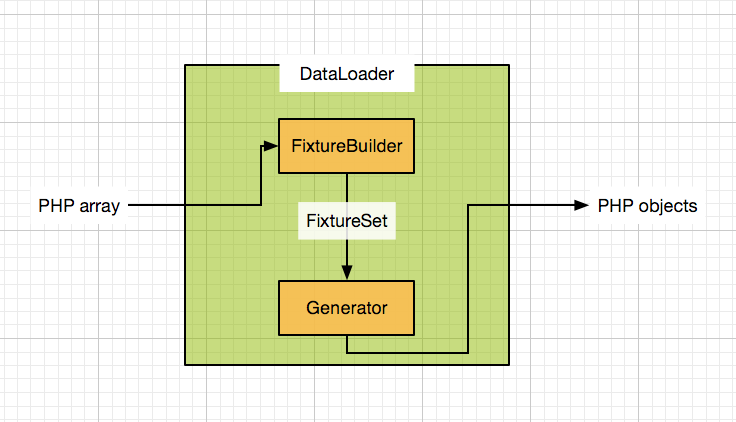
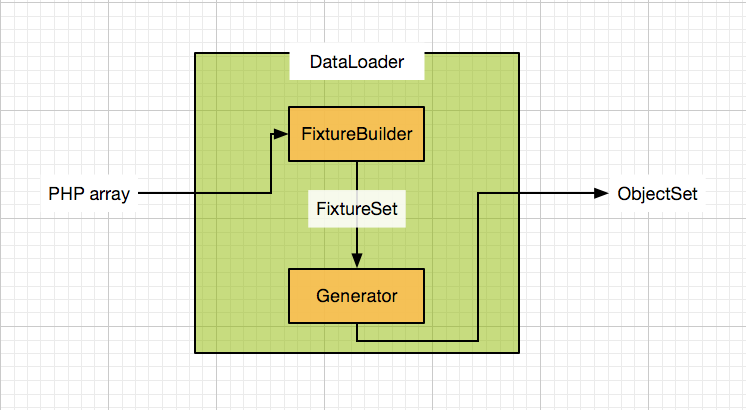
update

diff --git a/tests/Loader/AbstractLoaderIntegrationTestCase.php b/tests/Loader/AbstractLoaderIntegrationTestCase.php
@@ -789,6 +789,44 @@ abstract class AbstractLoaderIntegrationTestCase extends \PHPUnit_Framework_Test
         $this->loader->loadData($data);
     }
 
+    public function testInjectedParametersAndObjectsAreOverriddenByLocalParameters()
+    {
+        $this->markTestSkipped('TODO');
+        $set = $this->loader->loadData(
+            [
+                'parameters' => [
+                    'foo' => 'baz',
+                ],
+                \stdClass::class => [
+                    'dummy' => [
+                        'injected' => false,
+                    ],
+                ],
+            ],
+            [
+                'foo' => 'bar',
+            ],
+            [
+                'dummy' => StdClassFactory::create([
+                    'injected' => true,
+                ])
+            ]
+        );
+
+        $expected = new ObjectSet(
+            new ParameterBag([
+                'foo' => 'baz',
+            ]),
+            new ObjectBag([
+                'dummy' => StdClassFactory::create([
+                    'injected' => false,
+                ])
+            ])
+        );
+
+        $this->assertEquals($expected, $set);
+    }
+
     public function provideFixturesToInstantiate()
     {
         yield 'with default constructor – use default constructor' => [

diff --git a/CONTRIBUTING.md b/CONTRIBUTING.md
@@ -1,5 +1,8 @@
 # Contribution Guide
 
+This guide is for those who wants to have a better understand on the library internals and how to get started if you
+want to contribute.
+
 ### Differences between 2.x and 3.x
 
 Main differences between 2.x and 3.x:
@@ -8,218 +11,110 @@ Main differences between 2.x and 3.x:
 - Rewrite of the API to make it more extensible and more robust
 - Change in the architecture to address some limitations found in 2.x
 
+
 ### Architecture
 
 The two entry points of the library are the `DataLoader` and `FileLoader`:
 
-<p align="center">
-    ![FileLoader](doc/img/FileLoader.png)
-</p>
+![FileLoader](doc/img/FileLoader.png)
 
-  * Added new parser system with support for cache (#361)
-  * Add new parameter resolver system with support for dynamic and composite keys (#366)
+![DataLoader](doc/img/DataLoader.png)
 
+Alice problematic is to render an array PHP containing a description of objects and parameters with external objects
+and parameters that can be injected, into a set of parameters and objects called `ObjectSet.
 
-### 2.3.0 (WIP)
+In `DataLoader`, you can start to see the two second biggest components:
 
-#### Features
+- `FixtureBuilder`: responsible to denormalize the PHP array given into a comprehensible set of data called `FixtureSet`
+- `Generator`: responsible to generate the objects and resolve the parameters described in `FixtureSet` to generate an `ObjectSet`
 
-* Add support for stdClass objects (#425)
 
+#### FixtureBuilder
 
-### 2.2.2 (2016-07-15)
+`FixtureBuilder` is composed of two components: `Denormalizer` and `ExpressionLanguage`. The first one is in charged of
+transforming the input data array with the injected values in a collection of `Fixture` which describes an object to
+generate and parameters.
 
-#### Bugfixes
+`ExpressionLanguage` is the component used by the `Denormalizer` to parse the values such as `@user<current()>`, i.e.
+interpret alice DSL.
 
-* Fix support for hyphens (#431)
+The result `FixtureSet` is always invariant: reloading the same set of data will always result in the same result, hence
+is cacheable.
 
 
-### 2.2.1 (2016-07-14)
+#### Generator
 
-#### Bugfixes
+The `Generator` is responsible to transform a `FixtureSet` which is composed of `Fixture`, parameters, injected objects
+injected parameters into an `ObjectSet` which is a collection of PHP objects and parameters. Because some data are
+generated "randomly" thanks to [Faker][1], a `FixtureSet` will always give a different
+`ObjectSet`*.
 
-* Fix a BC break on how parameters were captured (#423)
-* Fix the usage of empty values with Faker provider (#426)
+*: If there is no dynamic data, the result will always be the same. Also depending of how [Faker][1] is seeded
+(`null` or a positive integer), it data will be generated more or less randomly. For a given seed,
+the data generated will always be the same, for a seed set to `null`, the result will always be different.
 
-#### Miscellaneous
+The generation of the data is done in the following order:
+ 
+1. Resolve `FixtureSet`
+    1. Resolve the parameters: it is assumed the injected parameters are already resolved. Existing parameters are
+    overriden by the local ones if they conflicts.
+    2. Resolve the fixtures: a fixture may have *flags*, used for having
+    [templates](https://github.com/nelmio/alice/blob/master/doc/fixtures-refactoring.md#fixture-inheritance) for example.
+    This resolution step is where it is possible to alter the collection of fixtures depending of the flags. For the
+    templates for example, this is the step where a `dummy` fixture inheriting from another one `base_dummy`, will
+    effectively inherit from the properties of `base_dummy` and `base_dummy` will be removed of the list of fixtures
+    (templates are not generated).
+1. Instantiation: thanks to an `Instantiator`, this is the step where *all* fixtures will be instantiated. The
+instantiation try to be smart enough to account for the order. For example if `second_dummy` is being instantiated but
+requires `first_dummy` to be instantiated first, instead of failing because the order is wrong like in 2.x, the
+instantiator will instantiate `first_dummy` before resuming the instantiation of `second_dummy`.
+1. Hydration: thanks to an `Hydrator`, is the step where all PHP objects are hydrated, i.e. where all the property
+values will be set.
+1. "Caller": thanks to a `Caller`, some additional function calls can be made on the PHP objects after instantiation and
+hydration.
 
-* Add tests for the usage of typehint in setters (#427)
-* Add tests for the usage of templates declared in an included file (#424)
+During the instantiation, hydration or calling process, values may be passed. Those values are a reference to another
+fixture, a parameter, a static value, but sometimes it can also be a value that must be generated via faker. For example
+`<name()>` will result in a random name. Those values are always resolved on the fly by a `ValueResolver`.
 
+To see more about the fixture lifecycle, please check [#388](https://github.com/nelmio/alice/issues/388).
 
-### 2.2.0 (2016-07-11)
+To have more detail regarding a class, the easiest way is to check the code itself and the tests."
 
-#### Features
+#### Expression Language
 
-* Add support for snake_case properties (#323)
-* Add support for dots in reference names (#312)
-* Add support for Fixture parameters in PHP File (#341)
-* Don't persist ORM entities (embeddable support) (#272)
-* Enable quoting references to reflect on the changes in Symfony YAML Parser (#305)
+As already mentionned, alice ship with an Expression Language, responsible to interpret values such as `@user*` or
+`<curent()>`. The complete list of supported features can be found in [ParserIntegrationTest](tests/FixtureBuilder/ExpressionLanguage/Parser/ParserIntegrationTest.php)
+with the [original RFC](https://github.com/nelmio/alice/issues/377).
 
-#### Deprecations
 
-* Drop support for PHP 5.4 and 5.5 (#414)
-* Deprecate usage of the the range operator with more than two dots (#329)
-* Deprecate usage of custom context in Parsers (#342)
 
-#### Bugfixes
+## Contributing
 
-* Fix singularify deprecation warnings and optimize method detection (#407)
-* Fix various bugs in #355:
-  - `user_{alice, bob,}` previously was building a reference named `user_{alice, bob,}`. Now builds that as a list, i.e. result in `user_alice` and `user_bob`. A deprecation warning is also thrown to warn the user that the list is poorly formatted and an exception will be thrown in v3.
-  - `user_{, alice, bob}`: same as previous case.
-  - `user_{0..2}`: value for `<current()>` were respectively `'0'`, `1`, `2`; Now are all strings as states the phpdoc. Changed in #339.
-  - `user_{0....2}`: was generating only one fixture named `user_{0....2}`; Now is equivalent to `user_{0...2}`
-  - `user_{2...0}`: as reported in #358 was generating 4 fixtures... Now is equivalent to `0...2` which result in `user_0`, `user_1` and `user_2`
-  - `user_{2...2}`: was generating two fixtures `user_1` and `user_3`; Now doesn't build any (the segment is `[2;2[` so contains no element)
-  - `user_{0.2}`: was generating a fixture named `user_{0.2}`; Now doesn't generate any.
-  - `user_{2..}`: was generating a fixture named `user_{2..}`; Now doesn't generate any.
-  - `user_{-1..2}`: was generating a fixture named `user_-1..2`; Now doesn't generate any. Same goes for all ranges containing a negative number
-  - Deprecate the silent failing occurring when a fixture could not be built by the builder: current returns `null`, will throw an exception in the future.
-* Fix unique flag usage with templates (#359)
-* Fix some phpdoc (#264)
-* Fix the order in which the files were included (#314)
+The project is using the [PHPUnit][2] for tests. The library also include framework bridges like
+[for Symfony](https://github.com/nelmio/alice/tree/master/src/Bridge/Symfony) which amounts to registering the right
+services with the right properties like tags and configuration to the framework Dependency Injection Container. Any
+other framework special features should be done in another library, bundle, module etc. 
 
+To avoid any conflicts, the framework dependencies used by the bridges are installed in dedicated folders thanks to
+[bamarni composer plugin][3]. As a result, if you want to run the tests for Symfony, you must run the tests with
+`phpunit_symfony.xml.dist` instead of `phpunit.xml.dist`.
 
-### 2.1.4 (2016-01-07)
+The test suite is also making use of the groups annotations:
 
-#### Bugfixes
+- `integration`: integration tests
+- `symfony`: Symfony bridge related tests
+- no group: any unit test
 
-* Ensure named static constructors are preferred over reflection (#303)
+For example to run only the Symfony bridge integration tests:
 
+`$ vendor/bin/phpunit -c phpunit_symfony.xml.dist --group=integration,symfony`
 
-### 2.1.3 (2015-12-28)
+The tests should be descriptive and are "testdox friendly" i.e. if you are using the testdox
+option, you will get something like:
 
-#### Features
+![Testdox](doc/img/testdox.png)
 
-* Add support for static constructors (#301)
-
-
-### 2.1.2 (2015-12-10)
-
-#### Features
-
-  * Add support for Symfony3 (#290, #287, #296)
-
-#### Bugfixes
-
-  * Allow the Populator to set private properties of a parent class (#282)
-
-
-### 2.1.1 (2015-10-01)
-
-  * Bug fixes / cleanup in `Fixtures` static class
-  * Bug fix in `Reference` processor to enable parsing zero references
-  * Bug fix to handle default instance with no properties
-  * Performance improvements
-
-
-### 2.1.0 (2015-09-06)
-
-  * Added support for array parameters
-  * Fixed bug handling addXXX setters
-  * Fixed bug handling functions without signature that use func_get_args() to retrieve parameters
-
-
-### 2.0.0 (2015-03-17)
-
-  * Expanded public interface of the `Loader` class to support:
-    - Trivial parsing of new document types
-    - Custom instantiation methods
-    - Custom setting of properties
-    - Custom processing and fixture building
-  * Added support for using parameters with the following
-    ```
-    parameters:
-        foo: value
-
-    Acme\ClassName:
-        property: <{foo}>
-    ```
-
-
-### 1.7.2 (2014-10-10)
-
-  * Fixed support for custom providers, using addProvider instead of setProviders lets you add single providers
-
-
-### 1.7.1 (2014-09-29)
-
-  * Fixed handling of non-existing files
-  * Fixed support for fixture inheritance combined with fixture ranges
-
-
-### 1.7.0 (2014-04-24)
-
-  * Added fixture inheritance with `(template)` and `(extends NAME)` flags
-  * Added support for including other yaml fixtures files using a top-level `include` array
-  * Added an `<identity()>` (aliased as `<()>` faker provider to just evaluate PHP expressions with variables
-  * Added `@self` reference which is the equivalent to `$this`
-  * Added support for passing references to faker providers
-  * Added support for HHVM and PHP 5.6
-
-
-### 1.6.0 (2014-02-05)
-
-  * The array of instances returned by load() now has the fixture name as key
-  * Added support for static factory methods to replace __construct
-  * Added a special __set property to define a custom setter for all properties
-  * Added support for @-references within faker provider calls e.g. `<foo(@obj)>`
-  * Added support for escaping @-signs to create literal strings starting with `@`, e.g. `\@foo`
-  * Fixed support for null variable references
-  * Fixed invalid invocation of private setters
-
-
-### 1.5.2 (2013-08-07)
-
-  * Fixed typo in the handling of processors
-  * Fixed regression in handling of <current()> in constructors
-
-
-### 1.5.1 (2013-08-01)
-
-  * Fixed persist_once issue, it is now disabled by default again
-  * Fixed regression in handling of suppressed constructors
-
-
-### 1.5.0 (2013-07-29)
-
-  * Added extensibility features to allow the creation of a Symfony2 AliceBundle (hautelook/alice-bundle)
-  * Added possibility to fetch objects by id with non-numeric ids
-  * Added `(local)` flag for classes and objects to create value objects that should not be persisted
-  * Added enums to create multiple objects (like fixture ranges but with names)
-  * Added ProcessorInterface to be able to modify objects before they get persisted
-  * Fixed cross-file references, everything is now persisted at once
-  * Fixed self-referencing of objects
-  * glob patterns now accept braces (http://php.net/manual/en/function.glob.php)
-
-
-### 1.4.0 (2013-04-15)
-
-  * Added possibility to mark fields as unique, so that random values are generated uniquely
-  * Added a logger option which can be a callable or PSR-3 logger and will receive basic progress information
-  * Added support for symfony 2.3
-  * Fixed caching of loader objects in the factory method to handle different options given for each loader
-
-
-### 1.3.0 (2013-01-22)
-
-  * Added support for multi and random references together with properties: `5x @user*->property`
-
-
-### 1.2.0 (2013-01-06)
-
-  * Added support for calling methods: `methodName: [arg, arg2, ..]`
-  * Added support for passing constructor arguments: `__construct: [arg, arg2]`
-  * Added possibility to bypass constructors by setting: `__construct: false`
-
-
-### 1.1.0 (2012-12-05)
-
-  * Added possibility to reference an object's properties via `@reference->property`
-
-
-### 1.0.0 (2012-11-22)
-
-  * Initial release
+[1]: https://github.com/fzaninotto/Faker
+[2]: https://github.com/sebastianbergmann/phpunit
+[3]: https://github.com/bamarni/composer-bin-plugin
